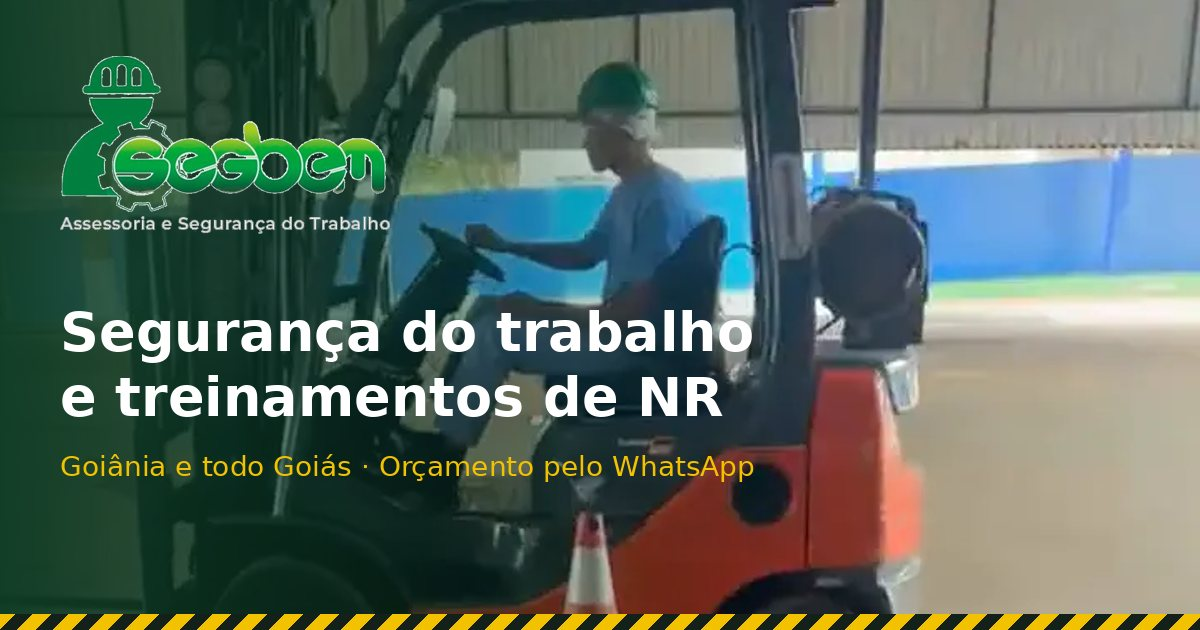
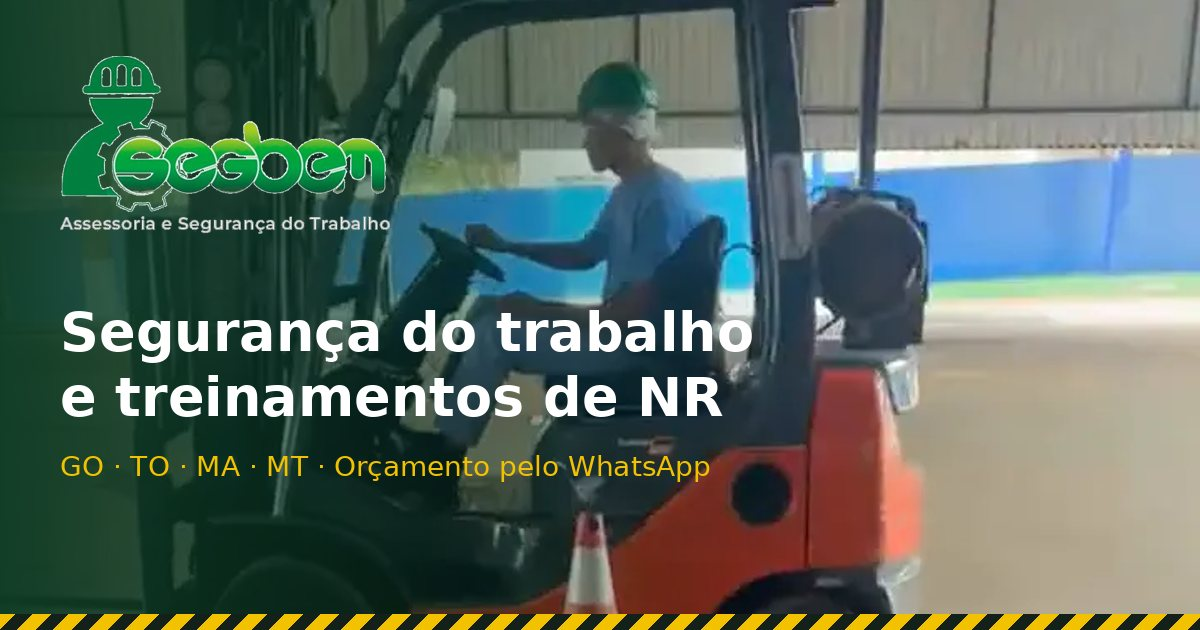
Regiao atendida no indice de cursos e na imagem de compartilhamento
Claude-Session: https://claude.ai/code/session_01VbY7BGUfhnTLqMJsTvWo8U

Changed region(s): [[0.0617, 0.7238, 0.6475, 0.7841]]

diff --git a/public/cursos.html b/public/cursos.html
@@ -4,10 +4,10 @@
 <meta charset="utf-8">
 <meta name="viewport" content="width=device-width, initial-scale=1">
 <title>Cursos de NR em Goiânia: NR-35, NR-33, NR-11, NR-10 e mais | Segbem</title>
-<meta name="description" content="Treinamentos de NR em Goiânia e todo Goiás: NR-35, NR-33, NR-11, NR-10, NR-12, NR-20, CIPA, Lei Lucas, plataforma elevatória, primeiros socorros e brigada. In company ou presencial.">
+<meta name="description" content="Treinamentos de NR em Goiás, Tocantins, Maranhão e Mato Grosso: NR-35, NR-33, NR-11, NR-10, NR-12, NR-20, CIPA, Lei Lucas, plataforma elevatória, primeiros socorros e brigada. In company ou presencial.">
 <link rel="canonical" href="https://segbemsst.com.br/cursos">
 <meta property="og:title" content="Cursos de NR em Goiânia: NR-35, NR-33, NR-11, NR-10 e mais | Segbem">
-<meta property="og:description" content="Treinamentos de NR em Goiânia e todo Goiás: NR-35, NR-33, NR-11, NR-10, NR-12, NR-20, CIPA, Lei Lucas, plataforma elevatória, primeiros socorros e brigada. In company ou presencial.">
+<meta property="og:description" content="Treinamentos de NR em Goiás, Tocantins, Maranhão e Mato Grosso: NR-35, NR-33, NR-11, NR-10, NR-12, NR-20, CIPA, Lei Lucas, plataforma elevatória, primeiros socorros e brigada. In company ou presencial.">
 <meta property="og:image" content="https://segbemsst.com.br/img/og.jpg">
 <meta property="og:url" content="https://segbemsst.com.br/cursos">
 <meta property="og:type" content="website">
@@ -75,7 +75,7 @@ img{max-width:100%}
 <section style="background: #0d3b24; color: #ffffff;">
 <div style="max-width: 1240px; margin: 0 auto; padding: 64px 24px 72px; display: flex; flex-direction: column; gap: 20px;">
 <div style="display: inline-flex; align-self: flex-start; background: rgba(242,194,0,0.14); color: #f2c200; font-weight: 700; font-size: 14px; letter-spacing: 0.08em; text-transform: uppercase; padding: 8px 14px; border-radius: 4px;">Principais cursos</div>
-<h1 style="margin: 0; font-family: 'Barlow Condensed', sans-serif; font-weight: 800; font-size: clamp(44px, 6vw, 76px); line-height: 0.98; text-transform: uppercase; max-width: 900px;">Treinamentos de NR em Goiânia e todo Goiás.</h1>
+<h1 style="margin: 0; font-family: 'Barlow Condensed', sans-serif; font-weight: 800; font-size: clamp(44px, 6vw, 76px); line-height: 0.98; text-transform: uppercase; max-width: 900px;">Treinamentos de NR em Goiás, Tocantins, Maranhão e Mato Grosso.</h1>
 <p style="margin: 0; font-size: 19px; line-height: 1.6; color: #d5e4d8; max-width: 640px;">Os principais cursos com carga horária, reciclagem e conteúdo. Não achou o seu? A gente realiza outros, é só chamar. Turmas in company, com a prática feita nos equipamentos da sua empresa, ou turmas presenciais.</p>
 </div>
 </section>

diff --git a/tools/cursos.py b/tools/cursos.py
@@ -314,7 +314,7 @@ def indice():
     body = f'''<section style="background: #0d3b24; color: #ffffff;">
 <div style="max-width: 1240px; margin: 0 auto; padding: 64px 24px 72px; display: flex; flex-direction: column; gap: 20px;">
 <div style="display: inline-flex; align-self: flex-start; background: rgba(242,194,0,0.14); color: #f2c200; font-weight: 700; font-size: 14px; letter-spacing: 0.08em; text-transform: uppercase; padding: 8px 14px; border-radius: 4px;">Principais cursos</div>
-<h1 style="margin: 0; font-family: 'Barlow Condensed', sans-serif; font-weight: 800; font-size: clamp(44px, 6vw, 76px); line-height: 0.98; text-transform: uppercase; max-width: 900px;">Treinamentos de NR em Goiânia e todo Goiás.</h1>
+<h1 style="margin: 0; font-family: 'Barlow Condensed', sans-serif; font-weight: 800; font-size: clamp(44px, 6vw, 76px); line-height: 0.98; text-transform: uppercase; max-width: 900px;">Treinamentos de NR em Goiás, Tocantins, Maranhão e Mato Grosso.</h1>
 <p style="margin: 0; font-size: 19px; line-height: 1.6; color: #d5e4d8; max-width: 640px;">Os principais cursos com carga horária, reciclagem e conteúdo. Não achou o seu? A gente realiza outros, é só chamar. Turmas in company, com a prática feita nos equipamentos da sua empresa, ou turmas presenciais.</p>
 </div>
 </section>
@@ -338,7 +338,7 @@ def indice():
 ''' + faq_block()
     faq_ld = {"@context": "https://schema.org", "@type": "FAQPage", "mainEntity": [{"@type": "Question", "name": q, "acceptedAnswer": {"@type": "Answer", "text": a}} for q, a in FAQ]}
     return page('cursos', 'Cursos de NR em Goiânia: NR-35, NR-33, NR-11, NR-10 e mais | Segbem',
-                'Treinamentos de NR em Goiânia e todo Goiás: NR-35, NR-33, NR-11, NR-10, NR-12, NR-20, CIPA, Lei Lucas, plataforma elevatória, primeiros socorros e brigada. In company ou presencial.',
+                'Treinamentos de NR em Goiás, Tocantins, Maranhão e Mato Grosso: NR-35, NR-33, NR-11, NR-10, NR-12, NR-20, CIPA, Lei Lucas, plataforma elevatória, primeiros socorros e brigada. In company ou presencial.',
                 body, active='cursos.html', ld=faq_ld)
 
 def p404():

diff --git a/tools/og.py b/tools/og.py
@@ -16,5 +16,5 @@ logo=Image.open(P+'logo-dark.png').convert('RGBA'); logo.thumbnail((330,200)); i
 d=ImageDraw.Draw(img)
 f1=ImageFont.truetype('/usr/share/fonts/truetype/dejavu/DejaVuSans-Bold.ttf',54); f2=ImageFont.truetype('/usr/share/fonts/truetype/dejavu/DejaVuSans.ttf',28)
 d.text((60,300),'Segurança do trabalho',font=f1,fill=(255,255,255)); d.text((60,365),'e treinamentos de NR',font=f1,fill=(255,255,255))
-d.text((60,450),'Goiânia e todo Goiás · Orçamento pelo WhatsApp',font=f2,fill=(242,194,0))
+d.text((60,450),'GO · TO · MA · MT · Orçamento pelo WhatsApp',font=f2,fill=(242,194,0))
 img.convert('RGB').save(P+'og.jpg','JPEG',quality=84,optimize=True)
